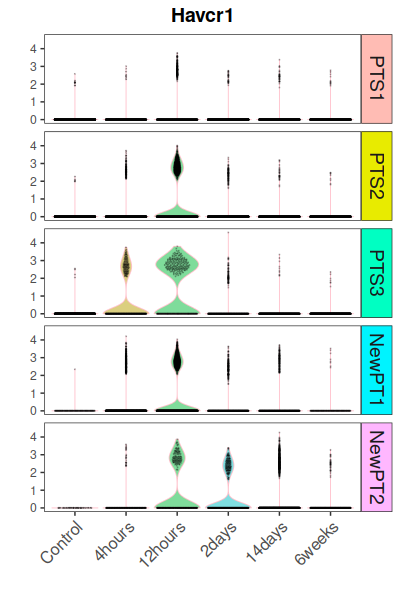
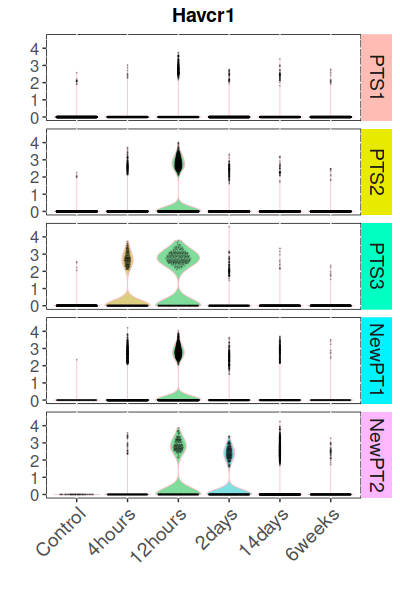
more updates

diff --git a/README.md b/README.md
@@ -90,17 +90,34 @@ dev.off()
 ![alt text](https://github.com/HaojiaWu/Plot1cell/blob/master/data/vlnplot_single_split.png) <br />
 #### One gene/multiple group factors violin plot:
 ```
-png(filename =  'vlnplot_multiple.png', width = 6, height = 6,units = 'in', res = 200)
+png(filename =  'vlnplot_multiple.png', width = 6, height = 6,units = 'in', res = 100)
 complex_vlnplot_single(iri.integrated, feature = "Havcr1", groups = c("Group","Replicates"),celltypes   = c("PTS1" ,   "PTS2"  ,  "PTS3"  ,  "NewPT1" , "NewPT2"), font.size = 10)
 dev.off()
 ```
 ![alt text](https://github.com/HaojiaWu/Plot1cell/blob/master/data/vlnplot_multiple.png) <br />
 
-Note that the Replicates group here is for demo purpose. This is not the mouse ID as reported in our original paper.
+Each group factor can be further splitted by its own factor by setting the splitby argument. Note that in this case, the order of the group factors needs to match the order of splitby factors. For example:
+```
+iri.integrated@meta.data$ReplicateID<-plyr::mapvalues(iri.integrated@meta.data$Replicates, from = names(table((iri.integrated@meta.data$Replicates))), to = c(rep("Rep1",3),rep("Rep2",3), rep("Rep3",1)))
+iri.integrated@meta.data$ReplicateID<-as.character(iri.integrated@meta.data$ReplicateID)
+
+png(filename =  'vlnplot_multiple_split.png', width = 7, height = 5,units = 'in', res = 200)
+complex_vlnplot_single(iri.integrated, feature = "Havcr1", groups = c("Group","Replicates"),
+                        celltypes   = c("PTS1" ,   "PTS2"  ,  "PTS3"  ,  "NewPT1" , "NewPT2"), 
+                        font.size = 10, splitby = c("Phase","ReplicateID"), pt.size=0.05)
+dev.off()
+
+### In this example, "Phase" is a splitby factor for "Group" and "ReplicateID" is a splitby factor for "Replicates".
+
+```
+
+![alt text](https://github.com/HaojiaWu/Plot1cell/blob/master/data/vlnplot_multiple_split.png) <br />
+
+Note that the Replicates group here is just for showcase purpose. This is not a meaning group ID in our snRNA-seq dataset.
 
 #### Multiple genes/one group factor violin plot:
 ```
-png(filename =  'vlnplot_multiple_genes.png', width = 8, height = 6,units = 'in', res = 300)
+png(filename =  'vlnplot_multiple_genes.png', width = 6, height = 6,units = 'in', res = 300)
 complex_vlnplot_multiple(iri.integrated, features = c("Havcr1",  "Slc34a1", "Vcam1",   "Krt20"  , "Slc7a13", "Slc5a12"), celltypes = c("PTS1" ,   "PTS2"  ,  "PTS3"  ,  "NewPT1" , "NewPT2"), group = "Group", add.dot=T, pt.size=0.01, alpha=0.01, font.size = 10)
 dev.off()
 ```
